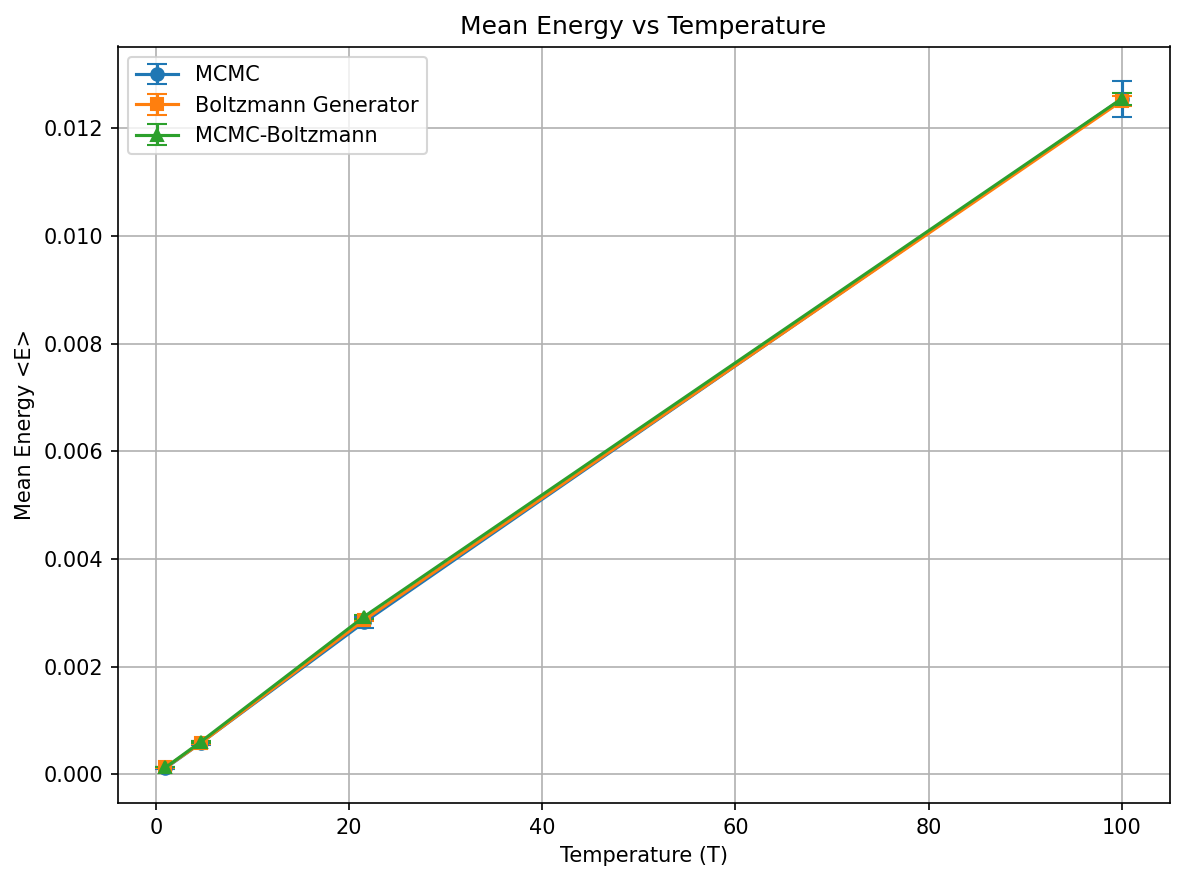
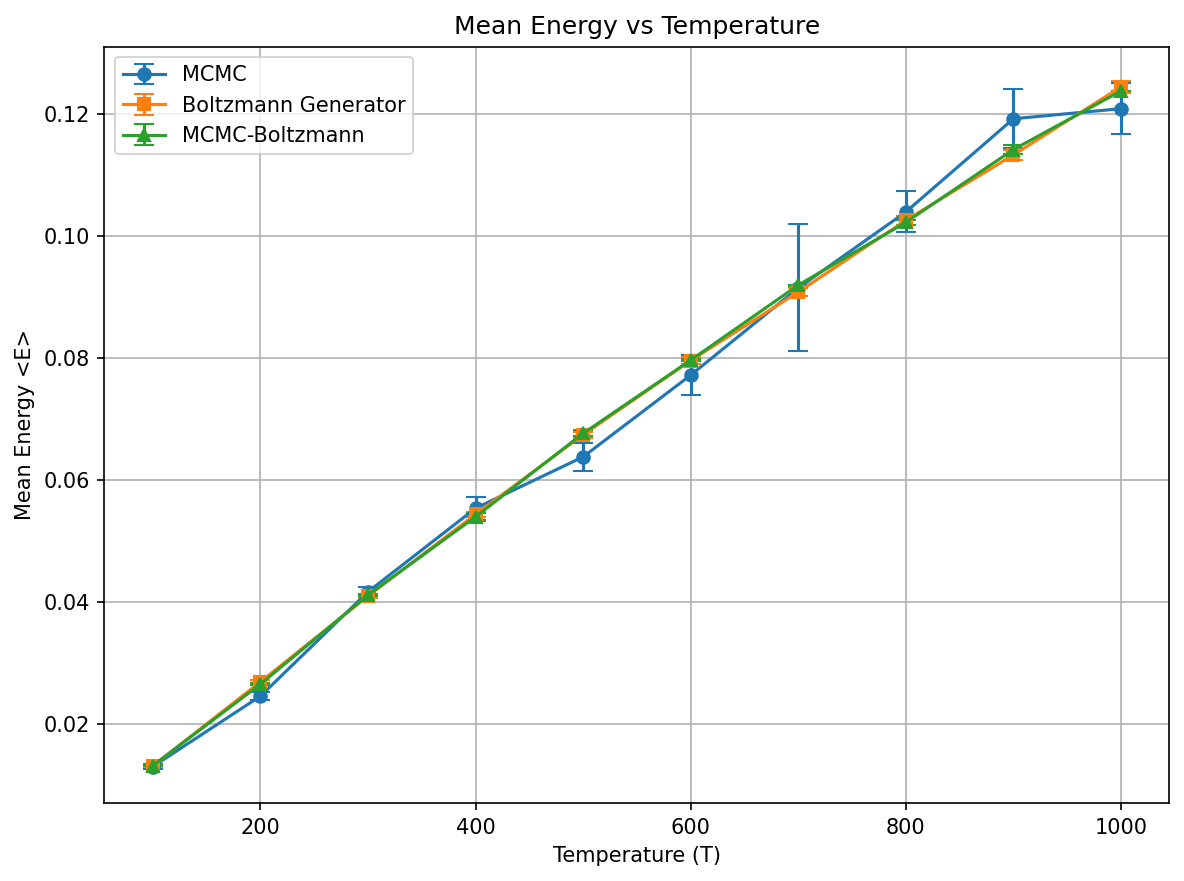
total sign, acceptance plot, faster training for bg

diff --git a/source/main.py b/source/main.py
@@ -10,9 +10,9 @@ from tqdm import tqdm
 
 def main():
     # Simulation parameters
-    T_max = 100.0   # temperatura più alta
-    T_min = 5.0     # temperatura più bassa
-    Ts = jnp.arange(T_max, T_min ,-5)   # da T_max a T_min, passo -5
+    T_max = 1000.0   # temperatura più alta
+    T_min = 10.0     # temperatura più bassa
+    Ts = jnp.arange(T_max, T_min ,-100)  # from hot to cold
     D = 3 # dimension of the system fixed to 3 for the double well potential: 1 slow variable + 2 fast variables
     kb = 8.617333262145e-5
     key = jax.random.PRNGKey(42)
@@ -31,7 +31,8 @@ def main():
             "E_mean": [],
             "E_mean_err": [],
             "acceptance": [],
-            "tau_x": []
+            "tau_x": [],
+            "total_sign": []
         } 
     
     results_bg = {
@@ -39,7 +40,8 @@ def main():
             "E_mean": [],
             "E_mean_err": [],
             "ESS": [], 
-            "tau_eff": []
+            "tau_eff": [],
+            "total_sign": []
         } 
 
     results_mcmc_bg = {
@@ -47,13 +49,15 @@ def main():
             "E_mean": [],
             "E_mean_err": [],
             "acceptance": [],
-            "tau_x": []
+            "tau_x": [],
+            "total_sign": []
         }   
     
 ####### 0. INITIALIZATION FOR MCMC AND MCMC-BOLTZMANN #######
     tollerance = 0.1
-    window = 3 # number of consecutive values to consider for the plateau detection, in log scale
+    window = 5 # number of consecutive values to consider for the plateau detection, in log scale
     c = 5 # Sokal method parameter for tau estimation, tau_int(x, c)
+    abs_tol = 0.01 # absolute tolerance for plateau detection, to avoid problems with very small values of R
     n_thermalization = 1000
     step_size = 0.1
 
@@ -75,7 +79,7 @@ def main():
         trajectory, acceptance_rate, key , x = run_prod(key, T, step_size, x)
             # x is the last configuration of the trajectory, used as initial configuration for the next temperature
 
-        obs.append_observables(results_mcmc, T, trajectory, acceptance_rate, V, tollerance,window, c, kb)
+        obs.append_observables(results_mcmc, T, trajectory, acceptance_rate, V, tollerance,window, c, abs_tol, kb)
 
     print("MCMC simulation completed.")
 
@@ -93,14 +97,16 @@ def main():
     )
 
     optimizer = optax.adam(1e-3)
+
     opt_state = optimizer.init(bg_params)
-    step_fn = bg.make_step(optimizer, potential=V, kb=kb)
+
+    train_T = bg.make_train_loop(optimizer,potential=V,kb=kb)
 
     for T in tqdm(Ts, desc="BG and MCMC-BG", unit="T"):
-        for _ in range(n_train_steps):
-            key, subkey = jax.random.split(key)
-            bg_params, opt_state, loss = step_fn(
-                bg_params, bg_static, opt_state, subkey, n_samples=500, T=T)
+        key, subkey = jax.random.split(key)
+        bg_params, opt_state, key, losses = train_T(
+            bg_params, bg_static, opt_state, subkey, T,
+            n_samples=500, n_steps=n_train_steps)
 
         # --- Sampling e reweighting ---
         x_bg, key = bg.sample(bg_params, bg_static, key, n_samples=n_samples) 
@@ -121,6 +127,7 @@ def main():
         results_bg["ESS"].append(Ess)
         results_bg["T"].append(T)
         results_bg["tau_eff"].append(tau_eff)
+        results_bg["total_sign"].append(jnp.sum(jnp.sign(x_bg[:, 0])))
 ##### 3. MCMC-BOLTZMANN GENERATOR ###### we use the flow already trained (we are in the T loop of BG)
         # sampling the starting config 
         x_start, key = bg.sample(bg_params, bg_static, key, n_samples=1)                
@@ -128,7 +135,7 @@ def main():
         # running the MCMC-Boltzmann simulation
         trajectory, acceptance_rate, key, x = run_flow_prod(key, T, x_start, bg_params, bg_static) 
 
-        obs.append_observables(results_mcmc_bg, T, trajectory, acceptance_rate, V, tollerance, window, c, kb)
+        obs.append_observables(results_mcmc_bg, T, trajectory, acceptance_rate, V, tollerance, window, c, abs_tol, kb)
 
     print("Boltzmann generator and MCMC-Boltzmann completed.")
         
@@ -136,7 +143,8 @@ def main():
 
     plot.E_vs_T_plot(results_mcmc, results_bg, results_mcmc_bg)
     plot.tau_vs_T_plot(results_mcmc, results_bg, results_mcmc_bg)
-
+    plot.acceptance_vs_T_plot(results_mcmc, results_mcmc_bg)
+    plot.total_sign_vs_T_plot(results_mcmc, results_bg, results_mcmc_bg)
     print("All simulations completed and plot saved.")
 
 if __name__ == "__main__":

diff --git a/source/plot.py b/source/plot.py
@@ -41,3 +41,38 @@ def tau_vs_T_plot(results_mcmc, results_bg, results_mcmc_bg):
     plt.tight_layout()
     #save the plot in the tex/images folder outside the source folder
     plt.savefig(OUT_DIR / "tau_vs_T_plot.png", dpi=150, bbox_inches="tight")
+
+def acceptance_vs_T_plot(results_mcmc, results_mcmc_bg):
+    """
+    Plotta acceptance rate vs T per MCMC, Boltzmann Generator e MCMC-Boltzmann.
+    """
+    plt.figure(figsize=(8, 6))
+    plt.plot(results_mcmc["T"], results_mcmc["acceptance"], 'o-', label='MCMC')
+    plt.plot(results_mcmc_bg["T"], results_mcmc_bg["acceptance"], '^-', label='MCMC-Boltzmann')
+
+    plt.xlabel('Temperature (T)')
+    plt.ylabel('Acceptance Rate')
+    plt.title('Acceptance Rate vs Temperature')
+    plt.legend()
+    plt.grid(True)
+    plt.tight_layout()
+    #save the plot in the tex/images folder outside the source folder
+    plt.savefig(OUT_DIR / "acceptance_vs_T_plot.png", dpi=150, bbox_inches="tight")
+
+def total_sign_vs_T_plot(results_mcmc, results_bg, results_mcmc_bg):
+    """
+    Plotta total sign vs T per MCMC, Boltzmann Generator e MCMC-Boltzmann.
+    """
+    plt.figure(figsize=(8, 6))
+    plt.plot(results_mcmc["T"], results_mcmc["total_sign"], 'o-', label='MCMC')
+    plt.plot(results_bg["T"], results_bg["total_sign"], 's-', label='Boltzmann Generator')
+    plt.plot(results_mcmc_bg["T"], results_mcmc_bg["total_sign"], '^-', label='MCMC-Boltzmann')
+
+    plt.xlabel('Temperature (T)')
+    plt.ylabel('Total Sign')
+    plt.title('Total Sign vs Temperature')
+    plt.legend()
+    plt.grid(True)
+    plt.tight_layout()
+    #save the plot in the tex/images folder outside the source folder
+    plt.savefig(OUT_DIR / "total_sign_vs_T_plot.png", dpi=150, bbox_inches="tight")

diff --git a/source/observables.py b/source/observables.py
@@ -18,39 +18,28 @@ def make_potential(a: float = 1.0, b: float = 1.0,c: float = 0.0, potential_type
             raise ValueError(f"Unknown potential_type: {potential_type}, the options are: 'simmetric_double_well', 'asymmetric_double_well'")
     return V
 
-def find_plateau(R, window=3, tolerance=0.2, obs="_"):
+def find_plateau(R, window=3, tollerance=0.2, abs_tol=1e-3, obs="_"): #there is a abs_tol to avoid problems with very small values of R
     window = int(window)
     R = np.array(R, dtype=float)
-
-    # we use log because R can grow esponenzialmente, and we want to detect plateaus in a more stable way
     logR = np.log(R)
 
     for k in range(window, len(R)):
-
-        # 1. Window of previous values in log scale
         segment = logR[k-window:k]
-
-        # 2. local mean in log scale
         mean = np.mean(segment)
-
-        # 3. STD of log values in the window
         std = np.std(segment)
+        thresh = max(abs_tol, tollerance * abs(mean))
 
-        # 4. Check of plateau:
-        #    Last values should be close to the local mean, within tolerance * mean (in log scale)
-        if abs(logR[k] - mean) < tolerance * abs(mean) and std < tolerance * abs(mean):
-            # we want the linear value of R, not the log
+        if abs(logR[k] - mean) < thresh and std < thresh:
             R_plateau = R[k]
             tau = 0.5 * (R_plateau - 1)
             return R_plateau, tau
 
-    # --- Fall-back: plateau not found ---
     print(f"WARNING: plateau not found for {obs}, using last value.")
     R_plateau = R[-1]
     tau = 0.5 * (R_plateau - 1)
     return R_plateau, tau
 
-def blocking_analysis(data, window, threshold, obs="_"):
+def blocking_analysis(data, window, threshold, abs_tol, obs="_"):
     x = jnp.array(data, dtype=jnp.float32)
 
     # varianza completa 
@@ -75,7 +64,7 @@ def blocking_analysis(data, window, threshold, obs="_"):
         # blocking → media di coppie
         cur = 0.5 * (cur[0::2] + cur[1::2])
         m *= 2
-    R_plateau, tau = find_plateau(R_list,window, threshold, obs)
+    R_plateau, tau = find_plateau(R_list,window, threshold,abs_tol, obs)
     M = data.shape[0]
     sigma_mean = jnp.sqrt(R_plateau * varX / M)
     return sigma_mean, tau
@@ -99,19 +88,22 @@ def tau_int(x, c=5):
             break
     return tau
 
-def append_observables(results,T,trajectory,acceptance_rate,V: Callable,tolerance: float = 0.01, window: int = 5,c: int = 5, kb: float = 8.617333262145e-5):
+def append_observables(results,T,trajectory,acceptance_rate,V: Callable,tolerance: float = 0.01, window: int = 5,c: int = 5,abs_tol: float = 1e-3, kb: float = 8.617333262145e-5):
     energies = np.array(jax.vmap(lambda x: V(x))(trajectory))
     energies2 = energies**2
 
     # blocking for E
     E_mean =np.mean(energies)
-    E_mean_err, _ = blocking_analysis(energies, window, tolerance, obs="E_mean")
+    E_mean_err, _ = blocking_analysis(energies, window, tolerance, abs_tol, obs="E_mean")
 
     # tau for x[0]
     tau_x = tau_int(trajectory[:, 0],c)
+    # total sign
+    tot_sign = jnp.sum(jnp.sign(trajectory[:, 0]))
 
     results["T"].append(T)
     results["E_mean"].append(E_mean)
     results["E_mean_err"].append(E_mean_err)
     results["acceptance"].append(acceptance_rate)
     results["tau_x"].append(tau_x)
+    results["total_sign"].append(tot_sign)

diff --git a/source/boltzmann_gen.py b/source/boltzmann_gen.py
@@ -187,6 +187,26 @@ def make_step(optimizer, potential=None, kb=8.617333262145e-5):
 
     return step
 
+def make_train_loop(optimizer, potential=None, kb=8.617333262145e-5):
+    step_fn = make_step(optimizer, potential=potential, kb=kb)
+
+    @partial(jax.jit, static_argnames=("static", "n_samples", "n_steps"))
+    def train_T(params, static, opt_state, key, T, n_samples=500, n_steps=8000):
+        def body(carry, _):
+            params, opt_state, key = carry
+            key, subkey = jax.random.split(key)
+            params, opt_state, loss = step_fn(
+                params, static, opt_state, subkey, n_samples=n_samples, T=T
+            )
+            return (params, opt_state, key), loss
+
+        (params, opt_state, key), losses = jax.lax.scan(
+            body, (params, opt_state, key), None, length=n_steps
+        )
+        return params, opt_state, key, losses
+
+    return train_T
+
 
 # ---------------------------------------------------------------------------
 # Sampling